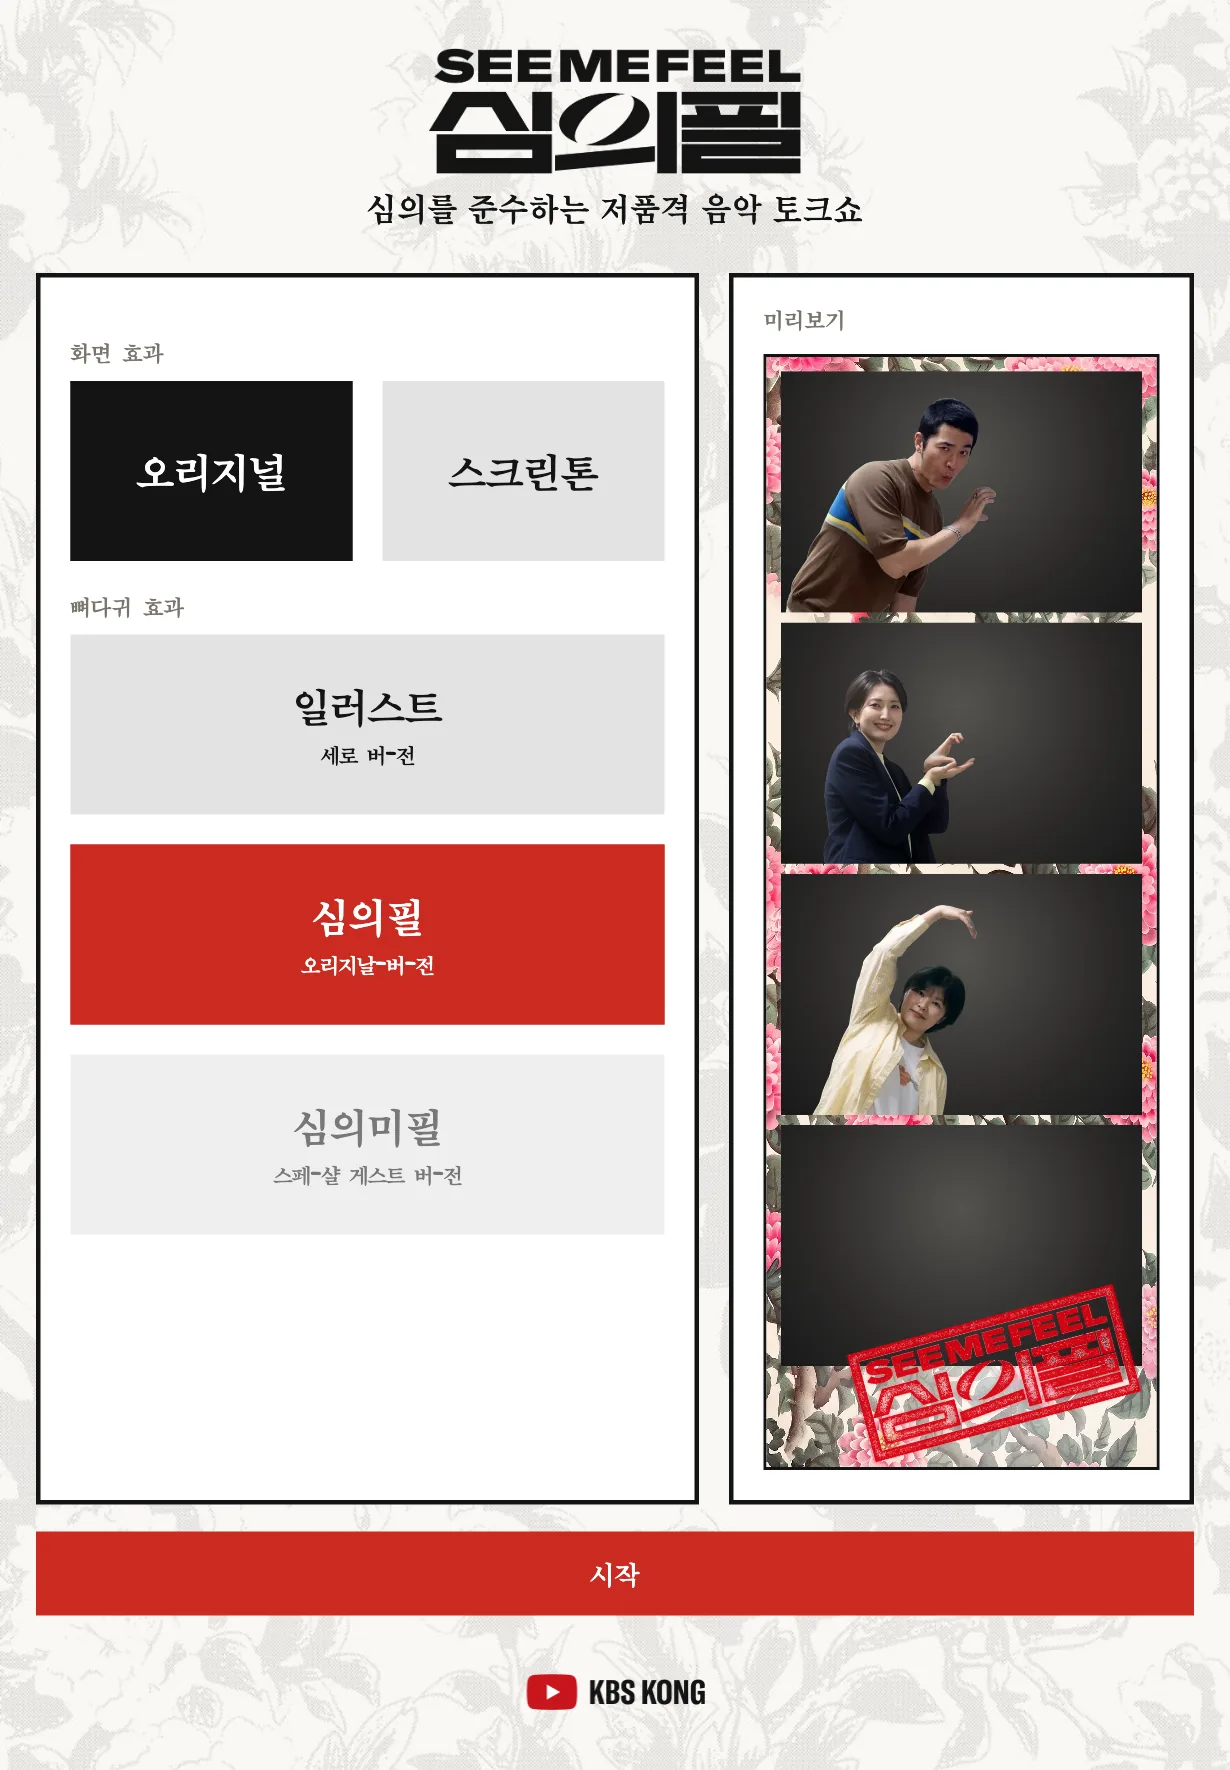
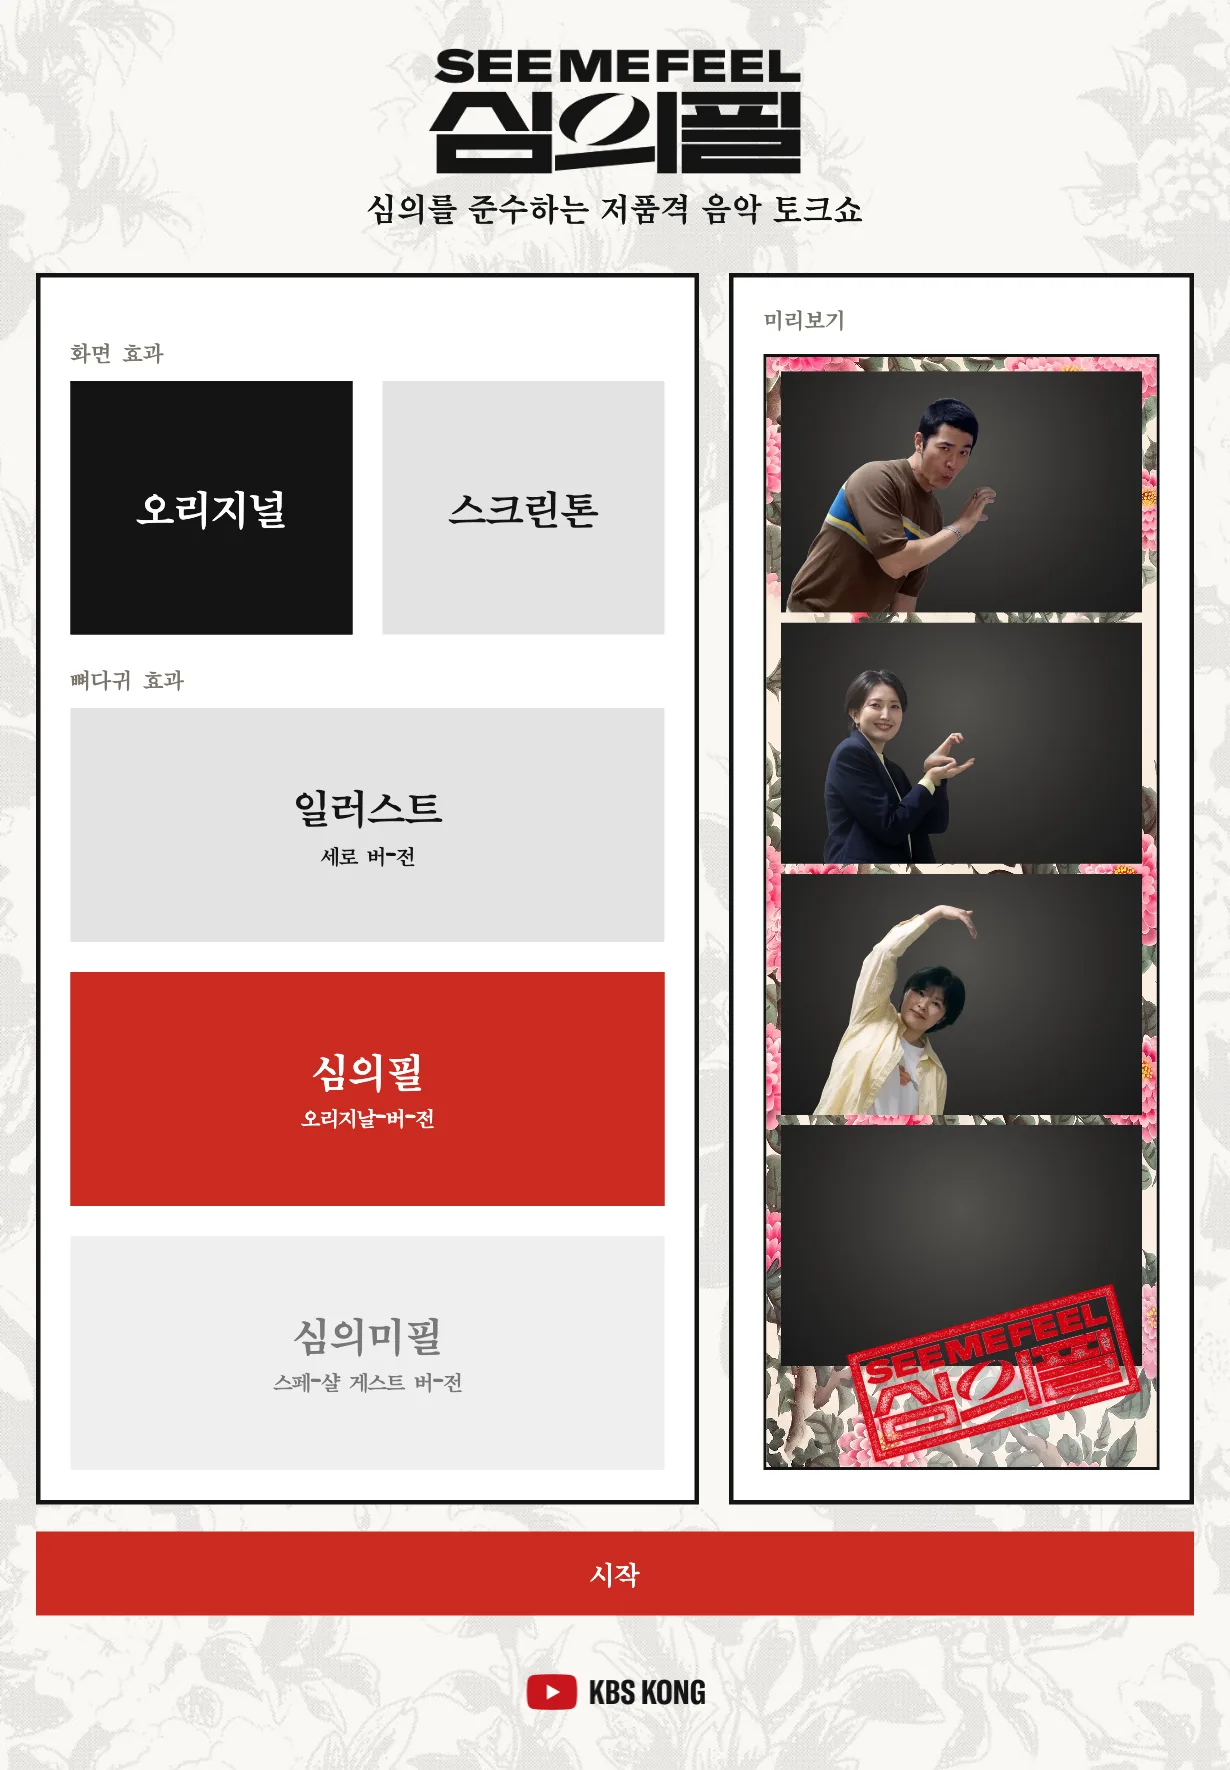
촬영 효과음(카운트 삐 ×3 + 찰칵) + 고르기 화면 칩이 패널 높이를 다 채우게
- 효과음은 파일 없이 Web Audio로 합성(사인 삐, 대역통과 잡음 찰·칵). iOS 때문에 shoot()(터치 핸들러) 첫 줄에서 AudioContext를 깨운다
- 심의필 테마: #filters:#frames = 1:3으로 늘려 아래 빈 여백 제거
- 고객 공유 페이지: 촬영 화면 캡션에 효과음·무음 스위치 안내, 스크린샷 갱신

Changed region(s): [[0.0309, 0.2486, 0.5561, 0.6836], [0.2163, 0.7458, 0.3707, 0.8079]]

diff --git a/index.html b/index.html
@@ -273,6 +273,18 @@ else{ const r=$('phrases'); r.previousElementSibling.remove(); r.remove(); }
 
 const wait=ms=>new Promise(r=>setTimeout(r,ms));
 
+// 효과음 — 맥 포토부스처럼 카운트마다 삐, 찍을 때 찰칵. 파일 없이 Web Audio로 합성한다.
+// iOS는 터치 안에서 AudioContext를 만들어야 소리가 나므로 shoot()(버튼 클릭 핸들러) 첫 줄에서 audio()를 부른다. 아이패드 무음 스위치가 켜져 있으면 안 들릴 수 있다.
+let AC=null;
+function audio(){ try{ if(!AC) AC=new (window.AudioContext||window.webkitAudioContext)(); if(AC.state==='suspended') AC.resume(); }catch(e){ AC=null; } return AC; }
+function beep(f=880,dur=.18,vol=.3){ const a=audio(); if(!a) return; const o=a.createOscillator(), g=a.createGain(), t=a.currentTime;
+  o.type='sine'; o.frequency.value=f; g.gain.setValueAtTime(vol,t); g.gain.exponentialRampToValueAtTime(.001,t+dur);
+  o.connect(g).connect(a.destination); o.start(t); o.stop(t+dur); }
+function shutter(){ const a=audio(); if(!a) return; const n=Math.floor(a.sampleRate*.08), buf=a.createBuffer(1,n,a.sampleRate), d=buf.getChannelData(0);
+  for(let i=0;i<n;i++) d[i]=(Math.random()*2-1)*Math.pow(1-i/n,2.5); // 짧은 잡음 — 셔터 '찰'
+  const click=(t,vol,fq)=>{ const src=a.createBufferSource(); src.buffer=buf; const f=a.createBiquadFilter(); f.type='bandpass'; f.frequency.value=fq; f.Q.value=.7; const g=a.createGain(); g.gain.value=vol; src.connect(f).connect(g).connect(a.destination); src.start(t); };
+  click(a.currentTime,.9,2600); click(a.currentTime+.075,.6,1800); } // 찰·칵 두 번
+
 // 촬영 가이드 — 테마가 guide()를 주면 i번째 컷에 맞춰 라이브뷰 위에 그린다(출연자 반투명·잘리는 영역)
 function drawGuide(i){
   const g=$('guide'); if(!T.guide){ g.width=g.height=0; return; }
@@ -305,15 +317,15 @@ function updatePreview(){
 
 const shootBtns=()=>TWO?[$('go'),$('back')]:[$('shoot')]; // 촬영 중 잠글 버튼
 async function shoot(){
-  busy=true;
+  busy=true; audio(); // 클릭(사용자 터치) 안에서 오디오를 깨운다
   shootBtns().forEach(b=>b.disabled=true); shots=[]; resetSlots(); prog.style.display='block';
   let pending=null;
   for(let i=0;i<SHOTS;i++){
     drawGuide(i); if(TWO) slot(i).classList.add('cur');
     prog.textContent=`${i+1} / ${SHOTS}`; count.style.display='flex';
-    for(let n=3;n>0;n--){ count.textContent=n; await wait(800); }
+    for(let n=3;n>0;n--){ count.textContent=n; beep(); await wait(800); }
     count.textContent='●'; await wait(150);
-    flash.classList.remove('on'); void flash.offsetWidth; flash.classList.add('on');
+    shutter(); flash.classList.remove('on'); void flash.offsetWidth; flash.classList.add('on');
     shots.push(snap()); fillSlot(i,shots[i]); count.style.display='none';
     if(i===SHOTS-1){ compose(); pending=(CLOUD_NAME&&UPLOAD_PRESET)?startUpload():null; } // 마지막 컷 직후 업로드 시작(대기와 겹침)
     await wait(550);

diff --git a/docs/layouts.html b/docs/layouts.html
@@ -170,7 +170,7 @@ td.y{color:#1a7f37;font-weight:600} td.n{color:#ca2b22;font-weight:600}
   <p class="lead">고르기 화면과 촬영 화면을 나눈 C안을 적용했습니다. 버튼과 미리보기가 커졌고, 촬영 화면에서는 카메라가 화면 폭 전체를 씁니다.</p>
   <div class="shots">
     <figure><img src="shot-pick.webp" alt="고르기 화면"><figcaption><b>고르기 화면</b>화면 효과와 뼈다귀 효과를 고른 뒤 시작 버튼을 누릅니다. 오른쪽 미리보기에는 라이브 화면이 비쳐 완성 모습을 미리 볼 수 있습니다.</figcaption></figure>
-    <figure><img src="shot-shoot.webp" alt="촬영 화면"><figcaption><b>촬영 화면</b>카메라가 화면 폭 전체로 커집니다. 출연자 자리를 보고 선 뒤 촬영 시작을 누르면 4컷이 자동으로 찍히며, 찍힌 컷은 아래 칸에 한 장씩 채워집니다.</figcaption></figure>
+    <figure><img src="shot-shoot.webp" alt="촬영 화면"><figcaption><b>촬영 화면</b>카메라가 화면 폭 전체로 커집니다. 출연자 자리를 보고 선 뒤 촬영 시작을 누르면 4컷이 자동으로 찍히며, 찍힌 컷은 아래 칸에 한 장씩 채워집니다. 카운트다운마다 삐 소리, 찍힐 때 찰칵 소리가 납니다(아이패드 무음 스위치를 꺼 두어야 합니다).</figcaption></figure>
     <figure><img src="shot-after.webp" alt="촬영 후 화면"><figcaption><b>촬영 후</b>완성된 4컷과 QR 코드, 저장, 다시 찍기 버튼이 표시됩니다. QR 코드와 버튼은 같은 폭으로 오른쪽에 배치했습니다.</figcaption></figure>
   </div>
 </section>

diff --git a/themes/seemefeel/theme.css b/themes/seemefeel/theme.css
@@ -65,6 +65,9 @@ header{ width:100%; margin-bottom:32px } /* 로고 아래 여백을 위(.screen 
    뼈다귀 효과가 3종이라 칩이 한 줄에 하나씩 — 세 줄 다 폭을 꽉 채우고 높이도 키운다. 촬영 화면: 작은 로고, 컷 칸은 굵은 선 */
 body[data-flow="two"] #capScreen .capmain{ grid-template-columns:minmax(0,1fr) 310px }
 body[data-flow="two"] #capScreen .chip{ padding:19px 8px; font-size:26px; min-height:120px }
+/* 칩이 패널 높이(=미리보기 열 높이)를 다 채우게 — 아래 빈 여백 없이. 화면 효과 1줄 : 뼈다귀 효과 3줄 = 1:3 */
+body[data-flow="two"] #capScreen #filters{ flex:1 1 0 }
+body[data-flow="two"] #capScreen #frames{ flex:3 1 0 }
 body[data-flow="two"] #capScreen .chip small, body[data-flow="two"] #frames .chip small{ font-size:min(16px, 3.4cqw); margin-top:8px }
 body[data-flow="two"] #capScreen #frames .chip{ flex-basis:100% }
 body[data-flow="two"] #capScreen .lab{ font-size:14px }
